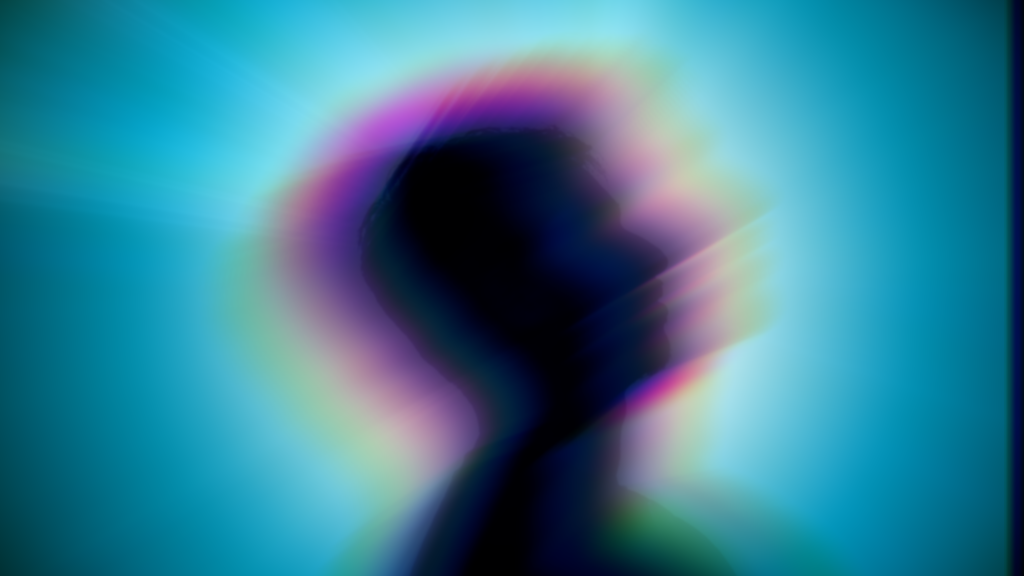
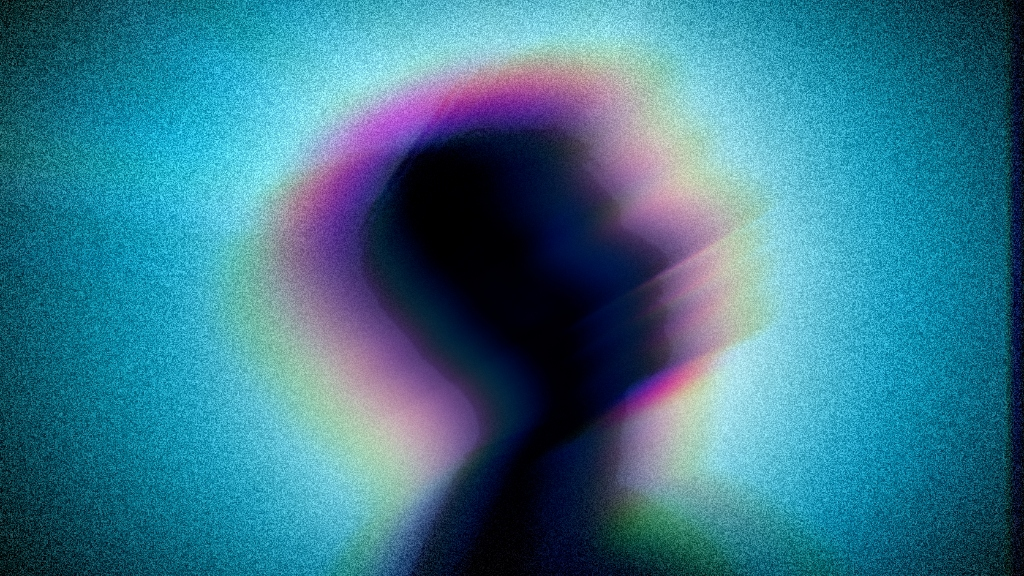
feat: update hero texture with new textured film-grain image

Changed region(s): [[0.0, 0.0, 1.0, 1.0]]

diff --git a/src/components/Scene.jsx b/src/components/Scene.jsx
@@ -104,8 +104,8 @@ export default function Scene({ title = "DAVINCI WALE BHAIYA" }) {
 
     // Load main artwork image
     const textureLoader = new THREE.TextureLoader();
-    let imageAspect = 1.0 / 1.5; // default 4672 / 7008
-    const texture = textureLoader.load('/hero/2.jpg', (tex) => {
+    let imageAspect = 576 / 1024; // 16:9 ratio
+    const texture = textureLoader.load('/hero/hero-custom.jpg', (tex) => {
       if (tex.image && tex.image.naturalWidth && tex.image.naturalHeight) {
         imageAspect = tex.image.naturalHeight / tex.image.naturalWidth;
         updateResolution();
@@ -276,15 +276,18 @@ export default function Scene({ title = "DAVINCI WALE BHAIYA" }) {
         style={{ touchAction: 'none' }}
       />
 
-      {/* Centered Editorial Title */}
+      {/* Centered Editorial Title (Exact Demo 2 Gradient Styling) */}
       <div className="relative z-10 w-full h-full min-h-screen flex items-center justify-center pointer-events-none px-4">
         <h1
-          className="text-center font-bold tracking-tight uppercase text-white drop-shadow-[0_4px_30px_rgba(0,0,0,0.8)]"
+          className="text-center font-bold tracking-tight uppercase"
           style={{
             fontSize: 'clamp(2.5rem, 8vw, 7.5rem)',
             lineHeight: 0.9,
             maxWidth: '85vw',
-            color: '#ffffff',
+            background: 'linear-gradient(90deg, #e9a680 0%, #992d46 50%, #064cb5 100%)',
+            WebkitBackgroundClip: 'text',
+            WebkitTextFillColor: 'transparent',
+            backgroundClip: 'text',
           }}
         >
           {title}
